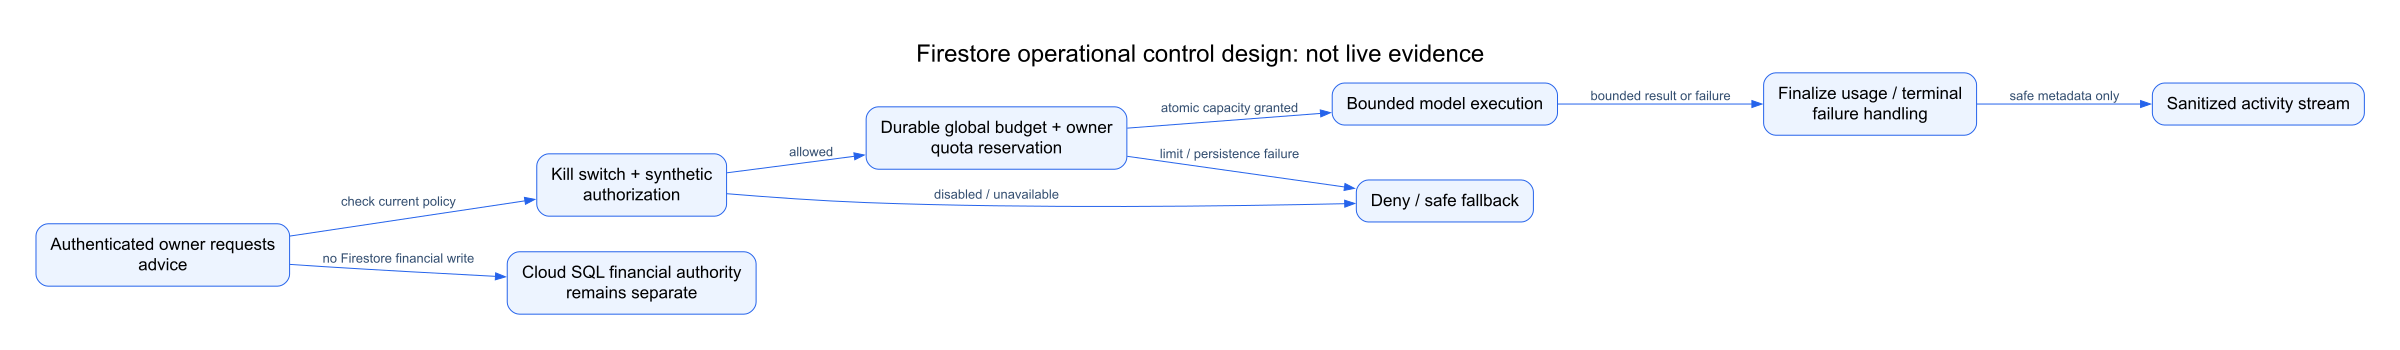
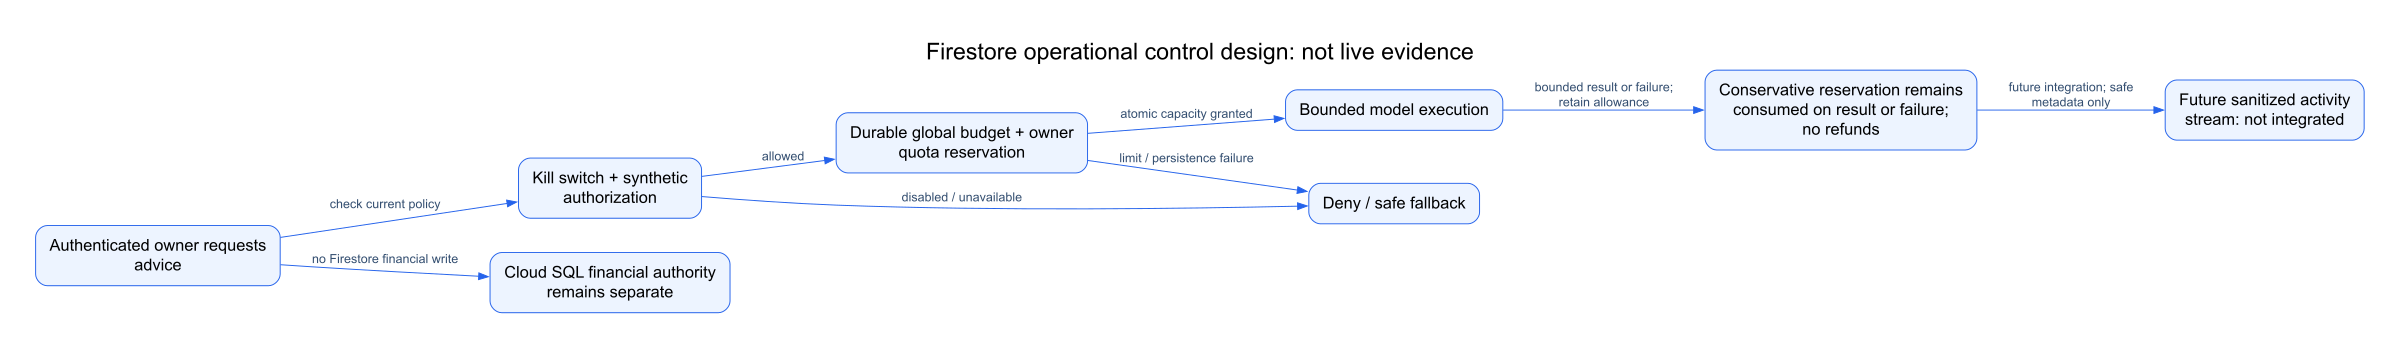
docs: reconcile candidate reviewer controls and public link evidence

diff --git a/docs/submission/packaging-status.md b/docs/submission/packaging-status.md
@@ -9,10 +9,16 @@
 | Working-product video 3–4 min | 3:30 storyboard and draft captions prepared | Authentic candidate footage, final MP4 duration/audio/visual QA and accessible link |
 | Product description <=1024 chars | Prepared in product-description.txt, mechanically bounded | Reconcile final implemented/live claims and selected BFSI challenge |
 | Selected BFSI problem statement | Exact official challenge wording not supplied here | User/portal source and explicit fit statement |
-| Prototype URL | Existing documented Beta: https://movebooks-si.web.app | Verify access and actual deployed candidate version; no new deployment authorized |
-| Repository URL | Existing source: https://github.com/JEMathew/movers-and-ledgers | Verify public accessibility and candidate branch/release evidence |
+| Prototype URL | Existing documented Beta: https://movebooks-si.web.app | 17 October read-only HTTP 200 confirmed by integration owner; candidate version not deployed/verified, no new deployment authorized |
+| Repository URL | Existing source: https://github.com/JEMathew/movers-and-ledgers | 17 October GitHub REST 200, private:false confirmed by integration owner; candidate branch/release still separate |
 | Google Cloud evidence | Existing architecture and historical validation reused | Genuine current service/mode/permission evidence, sanitized as appropriate |
 | PM / Working Backwards / diagrams | Prepared in source control | Candidate promise/test/deployment reconciliation |
 | Acceptance/evidence manifest | Integration-owner deliverable | All mandatory assets and gates reflected accurately |
 
 No cost, benchmark, adoption, financial impact, accuracy or performance result is invented. Implementation cost slide must distinguish measured spend, pricing inputs, workload assumptions and an unpriced model. Benchmarking must identify evaluated tasks, evidence window and missing comparisons. The mature PR/FAQ does not authorize real provider use or upload activation.
+
+## Read-only link evidence from integration owner
+
+On 17 October 2026, the public prototype returned HTTP 200 with the MoveBooks AI title. GitHub REST returned repository `JEMathew/movers-and-ledgers`, `private:false`, default branch `main`, last pushed `2026-10-12T16:47:16Z`. These observations prove reachability/public visibility only. The candidate was not deployed by this packaging work. `/api/v1/runtime` returned 404, so it supplies no runtime capability evidence. No ADC/gcloud was available for a current effective Vertex/Firestore verification.
+
+The candidate offline Agent Quality Judge has 18 golden contract cases in `evals/agent_quality_cases.json`, runner `scripts/agent_quality_judge.py`, and report `docs/submission/agent-quality-evidence.json`. Its reported 100% score measures expected contract acceptance/rejection detection with zero live model calls. It must not be presented as model accuracy, financial accuracy or customer impact.

diff --git a/docs/architecture-experience/README.md b/docs/architecture-experience/README.md
@@ -41,3 +41,7 @@ Version 1, source baseline `8f750d9`, 17 October 2026. Mermaid files and SVGs ar
 ## Important reading rules
 
 Gemini starts with an explicit user request and returns advice to that user. Advice is never automatically consumed by orchestration. Source and target adapters are separate. Transient retries occur automatically only within deterministic policy. Sensitive configuration and consequential remediations need human approval. Raw uploaded source never enters model context. Cloud SQL is financial authority. Firestore activity/operational controls do not replace audit evidence. A successful synthetic FPU outcome does not claim production provider migration.
+
+## Candidate source reconciliation
+
+The integration workstream now supplies `agents/reviewer/agent.py`, `domain/reasoning/reviewer.py`, `services/api/src/movebooks_api/reviewer.py` and `tests/test_independent_review.py`. It uses a separate review instruction/output contract with deterministic challenge fallback. This is source evidence, not a claim of live-model execution or deployment. `runtime/model_controls.py` implements a Firestore transaction reservation boundary with explicit synthetic authorization, kill switch, owner/global allowances and conservative consumed reservations on failure. No refund/finalization or live activity-stream integration is claimed. `tests/test_model_controls.py` exercises a serialized port double and pure decisions; it is not live Firestore proof.

diff --git a/docs/product-management/promise-traceability.md b/docs/product-management/promise-traceability.md
@@ -23,3 +23,7 @@ Baseline source inspected at `8f750d9`. Integration owner must reconcile candida
 | Mandatory deck template/video/portal limits unresolved | MB-08, MB-09 / submission not ready | Official template, verified portal constraints and authentic 3–4 minute final video |
 
 The Product Quality Judge must compare actual product evidence with this register and the PR/FAQ. It must not score hypothetical wording as implemented behavior. Customer outcome measurement remains proposed until instrumented and observed under the metric contract.
+
+## Candidate evidence updates
+
+The integration source now includes the independent Reviewer and `runtime/model_controls.py`. Their presence does not close deployment or live-model evidence. The internal evaluator has 18 contract golden cases in `evals/agent_quality_cases.json`, runner `scripts/agent_quality_judge.py` and a report in `docs/submission/agent-quality-evidence.json`. The reported 100% expected accept/reject detection score uses zero live calls and supplies regression evidence only. It cannot be substituted for user acceptance or model quality. The integration owner confirmed public prototype HTTP 200 and GitHub public visibility on 17 October; the candidate remains undeployed.
